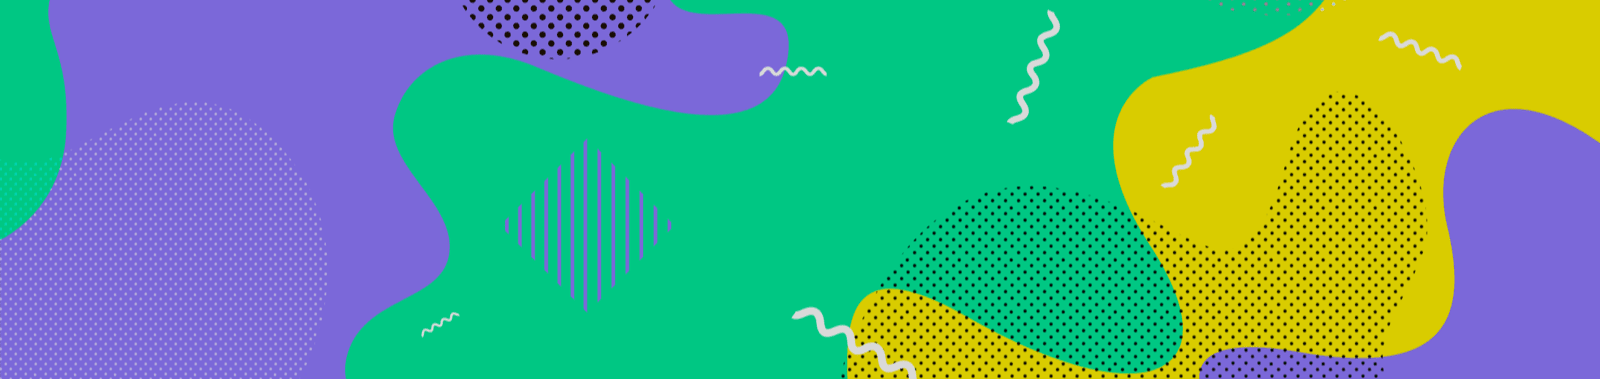
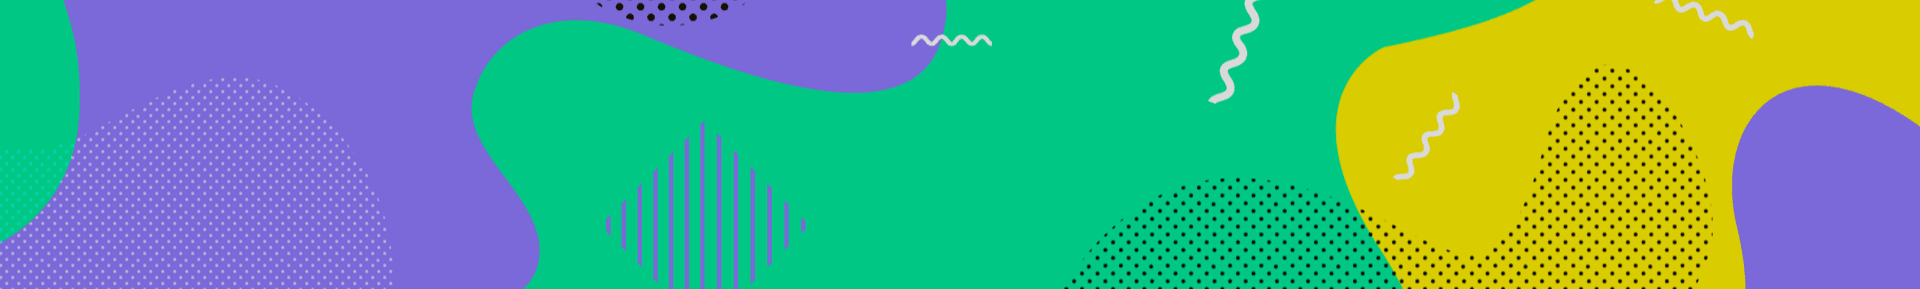
배너사이즈 수정

diff --git a/res/css/desktop.css b/res/css/desktop.css
@@ -740,13 +740,13 @@
 
 
 .home_banner {}
-.home_banner .bn_bg { position: absolute; width: 100%; height: 379px; }
+.home_banner .bn_bg { position: absolute; width: 100%; height: 289px; }
 .home_banner .bn_bg li { position: absolute; width: 100%; height: 100%; background-position: 50% 50%; background-size: auto 100%; background-repeat: no-repeat; opacity: 0; transition: opacity 2s; }
 .home_banner .bn_bg li.current { opacity: 1; }
 .home_banner .bn_img { position: relative; width: 1024px; margin: 0 auto; }
 
 #slides-wrap { position: relative; overflow: hidden; }
-#slides-main { position: relative; width: 924px; height: 379px; margin: 29px auto 0; overflow: hidden; }
+#slides-main { position: relative; width: 850px; height: 300px; margin: 29px auto 0; overflow: hidden; }
 #slides-main:before { content: ''; position: absolute; top: 0; left: 0; right: 0; bottom: 0; border: 3px solid #000000; z-index: 11; pointer-events: none; touch-action: none; }
 #slides-main .slide-image,
 #slides-main .abs-mask, 
@@ -765,21 +765,21 @@
 #slides-wrap.prev .prev .abs-mask { transform: translate3d(0, 0, 0); }
 #slides-wrap.prev #slides-main .slide:not(.prev):not(.active) { transform: translate3d(-100%, 0, 0); }
 #slides-wrap.prev #slides-main .slide:not(.prev):not(.active) .abs-mask { transform: translate3d(100%, 0, 0); }
-#slides-aux { position: absolute; bottom: 0; left: 0; right: 0; margin: 0 auto; width: 924px; height: 174px; pointer-events: none; touch-action: none; z-index: 20; }
+#slides-aux { position: absolute; bottom: 0; left: 0; right: 0; margin: 0 auto; width: 850px; height: 174px; pointer-events: none; touch-action: none; z-index: 20; }
 #slides-aux:before { content: ''; position: absolute; bottom: 0; left: 0; width: 100%; height: 100%; opacity: 0.7; background-image: linear-gradient(to bottom, rgba(0, 0, 0, 0), rgba(18, 18, 18, 0.8) 200%); }
-#slides-aux .slide-title { position: absolute; width: 100%; bottom: 0; padding: 0 32px 28px; }
+#slides-aux .slide-title { position: absolute; width: 100%; bottom: 0; padding: 0 32px 18px; }
 #slides-aux .slide-title .title { line-height: 48px; font-size: 33px; font-weight: bold; letter-spacing: -0.5px; color: #ffffff; }
 #slides-aux .slide-title .time { line-height: 34px; margin-top: 8px; font-family: Montserrat; font-size: 23px; font-weight: 500; letter-spacing: -0.5px; color: rgba(255,255,255,0.9); }
 #slides-aux .slide-title .time > em { font-style: normal; font-weight: normal; font-family: 'Noto Sans KR'; }
 #slides-aux .slide-title .time .tg_live { vertical-align: top; display: inline-block; margin: 6px 11px 0 0; width: 50px; height: 24px; background-image: url(../images/img-tag-live.png); background-size: 100%; background-repeat: no-repeat; overflow: hidden; text-indent: -9999em; }
 #slides-aux .slide:not(.active) { opacity: 0; }
 #slides-aux .slide.active { transition: opacity 0.6s 0.8s; }
-#slider-nav { position: absolute; bottom: 25px; right: 74px; z-index: 21; }
+#slider-nav { position: absolute; bottom: 15px; right: 111px; z-index: 21; }
 #slider-nav > span { line-height: 24px; font-family: Montserrat; font-size: 20px; font-weight: 500; letter-spacing: -0.5px; color: #ffffff; opacity: 0; transition: opacity 0.4s 1.3s; }
 #slides-wrap.ready #slider-nav > span { opacity: 1; }
-.bn_prev { position: absolute; top: 196px; left: 0; width: 46px; height: 46px; text-indent: -999em; font-size: 0; line-height: 0; overflow: hidden; background-image: url(../images/ic-arrow-home-banner.png); background-size: 100%; -webkit-transform: rotate(180deg); transform: rotate(180deg); }
+.bn_prev { position: absolute; top: 156px; left: 0; width: 46px; height: 46px; text-indent: -999em; font-size: 0; line-height: 0; overflow: hidden; background-image: url(../images/ic-arrow-home-banner.png); background-size: 100%; -webkit-transform: rotate(180deg); transform: rotate(180deg); }
 .bn_prev:hover { background-position: 0 100%; }
-.bn_next { position: absolute; top: 196px; right: 0; width: 46px; height: 46px; text-indent: -999em; font-size: 0; line-height: 0; overflow: hidden; background-image: url(../images/ic-arrow-home-banner.png); background-size: 100%; }
+.bn_next { position: absolute; top: 156px; right: 0; width: 46px; height: 46px; text-indent: -999em; font-size: 0; line-height: 0; overflow: hidden; background-image: url(../images/ic-arrow-home-banner.png); background-size: 100%; }
 .bn_next:hover { background-position: 0 100%; }
 
 .list-wrapper { position: relative; width: 1024px; margin: 0 auto; }

diff --git a/res/css/mobile.css b/res/css/mobile.css
@@ -703,13 +703,13 @@
 
 
 .home_banner {}
-.home_banner .bn_bg { position: absolute; width: 100%; height: 379px; }
+.home_banner .bn_bg { position: absolute; width: 100%; height: 289px; }
 .home_banner .bn_bg li { position: absolute; width: 100%; height: 100%; background-position: 50% 50%; background-size: auto 100%; background-repeat: no-repeat; opacity: 0; transition: opacity 2s; }
 .home_banner .bn_bg li.current { opacity: 1; }
 .home_banner .bn_img { position: relative; width: 1024px; margin: 0 auto; }
 
 #slides-wrap { position: relative; overflow: hidden; }
-#slides-main { position: relative; width: 924px; height: 379px; margin: 29px auto 0; overflow: hidden; }
+#slides-main { position: relative; width: 850px; height: 300px; margin: 29px auto 0; overflow: hidden; }
 #slides-main:before { content: ''; position: absolute; top: 0; left: 0; right: 0; bottom: 0; border: 3px solid #000000; z-index: 11; pointer-events: none; touch-action: none; }
 #slides-main .slide-image,
 #slides-main .abs-mask, 
@@ -728,21 +728,21 @@
 #slides-wrap.prev .prev .abs-mask { transform: translate3d(0, 0, 0); }
 #slides-wrap.prev #slides-main .slide:not(.prev):not(.active) { transform: translate3d(-100%, 0, 0); }
 #slides-wrap.prev #slides-main .slide:not(.prev):not(.active) .abs-mask { transform: translate3d(100%, 0, 0); }
-#slides-aux { position: absolute; bottom: 0; left: 0; right: 0; margin: 0 auto; width: 924px; height: 174px; pointer-events: none; touch-action: none; z-index: 20; }
+#slides-aux { position: absolute; bottom: 0; left: 0; right: 0; margin: 0 auto; width: 850px; height: 174px; pointer-events: none; touch-action: none; z-index: 20; }
 #slides-aux:before { content: ''; position: absolute; bottom: 0; left: 0; width: 100%; height: 100%; opacity: 0.7; background-image: linear-gradient(to bottom, rgba(0, 0, 0, 0), rgba(18, 18, 18, 0.8) 200%); }
-#slides-aux .slide-title { position: absolute; width: 100%; bottom: 0; padding: 0 32px 28px; }
+#slides-aux .slide-title { position: absolute; width: 100%; bottom: 0; padding: 0 32px 18px; }
 #slides-aux .slide-title .title { line-height: 48px; font-size: 33px; font-weight: bold; letter-spacing: -0.5px; color: #ffffff; }
 #slides-aux .slide-title .time { line-height: 34px; margin-top: 8px; font-family: Montserrat; font-size: 23px; font-weight: 500; letter-spacing: -0.5px; color: rgba(255,255,255,0.9); }
 #slides-aux .slide-title .time > em { font-style: normal; font-weight: normal; font-family: 'Noto Sans KR'; }
 #slides-aux .slide-title .time .tg_live { vertical-align: top; display: inline-block; margin: 6px 11px 0 0; width: 50px; height: 24px; background-image: url(../images/img-tag-live.png); background-size: 100%; background-repeat: no-repeat; overflow: hidden; text-indent: -9999em; }
 #slides-aux .slide:not(.active) { opacity: 0; }
 #slides-aux .slide.active { transition: opacity 0.6s 0.8s; }
-#slider-nav { position: absolute; bottom: 25px; right: 74px; z-index: 21; }
+#slider-nav { position: absolute; bottom: 15px; right: 111px; z-index: 21; }
 #slider-nav > span { line-height: 24px; font-family: Montserrat; font-size: 20px; font-weight: 500; letter-spacing: -0.5px; color: #ffffff; opacity: 0; transition: opacity 0.4s 1.3s; }
 #slides-wrap.ready #slider-nav > span { opacity: 1; }
-.bn_prev { position: absolute; top: 196px; left: 0; width: 46px; height: 46px; text-indent: -999em; font-size: 0; line-height: 0; overflow: hidden; background-image: url(../images/ic-arrow-home-banner.png); background-size: 100%; -webkit-transform: rotate(180deg); transform: rotate(180deg); }
+.bn_prev { position: absolute; top: 156px; left: 0; width: 46px; height: 46px; text-indent: -999em; font-size: 0; line-height: 0; overflow: hidden; background-image: url(../images/ic-arrow-home-banner.png); background-size: 100%; -webkit-transform: rotate(180deg); transform: rotate(180deg); }
 .bn_prev:hover { background-position: 0 100%; }
-.bn_next { position: absolute; top: 196px; right: 0; width: 46px; height: 46px; text-indent: -999em; font-size: 0; line-height: 0; overflow: hidden; background-image: url(../images/ic-arrow-home-banner.png); background-size: 100%; }
+.bn_next { position: absolute; top: 156px; right: 0; width: 46px; height: 46px; text-indent: -999em; font-size: 0; line-height: 0; overflow: hidden; background-image: url(../images/ic-arrow-home-banner.png); background-size: 100%; }
 .bn_next:hover { background-position: 0 100%; }
 
 .list-wrapper { position: relative; width: 1024px; margin: 0 auto; }
